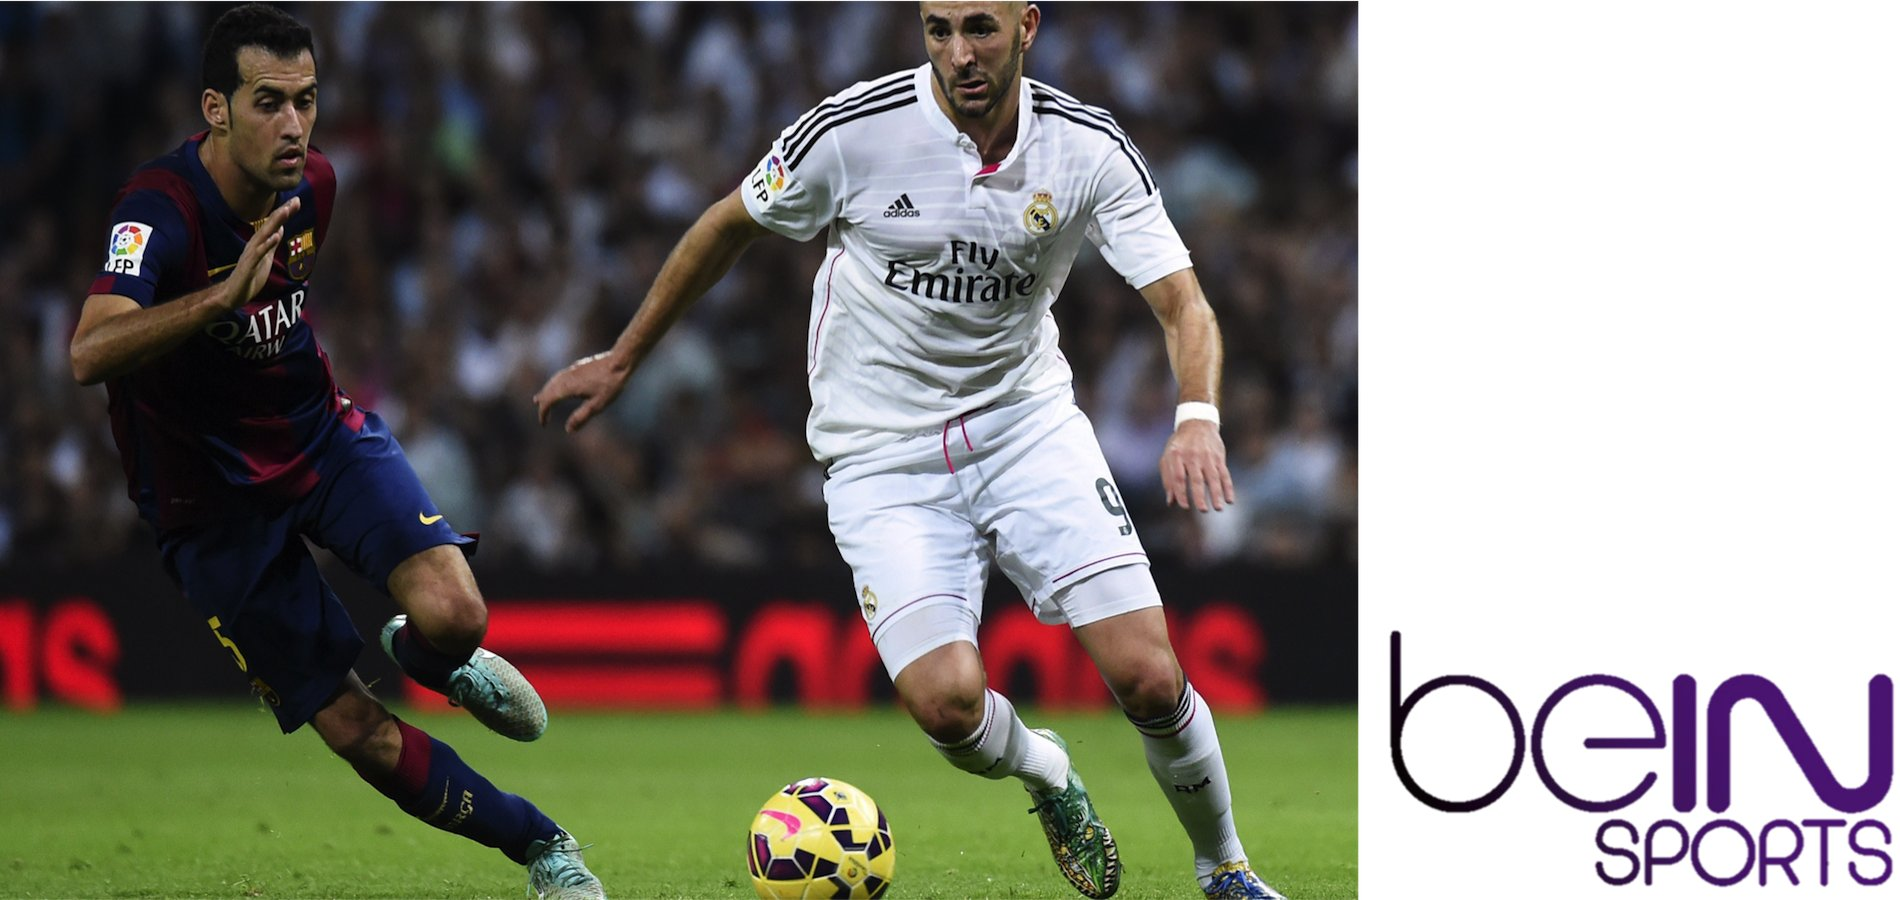
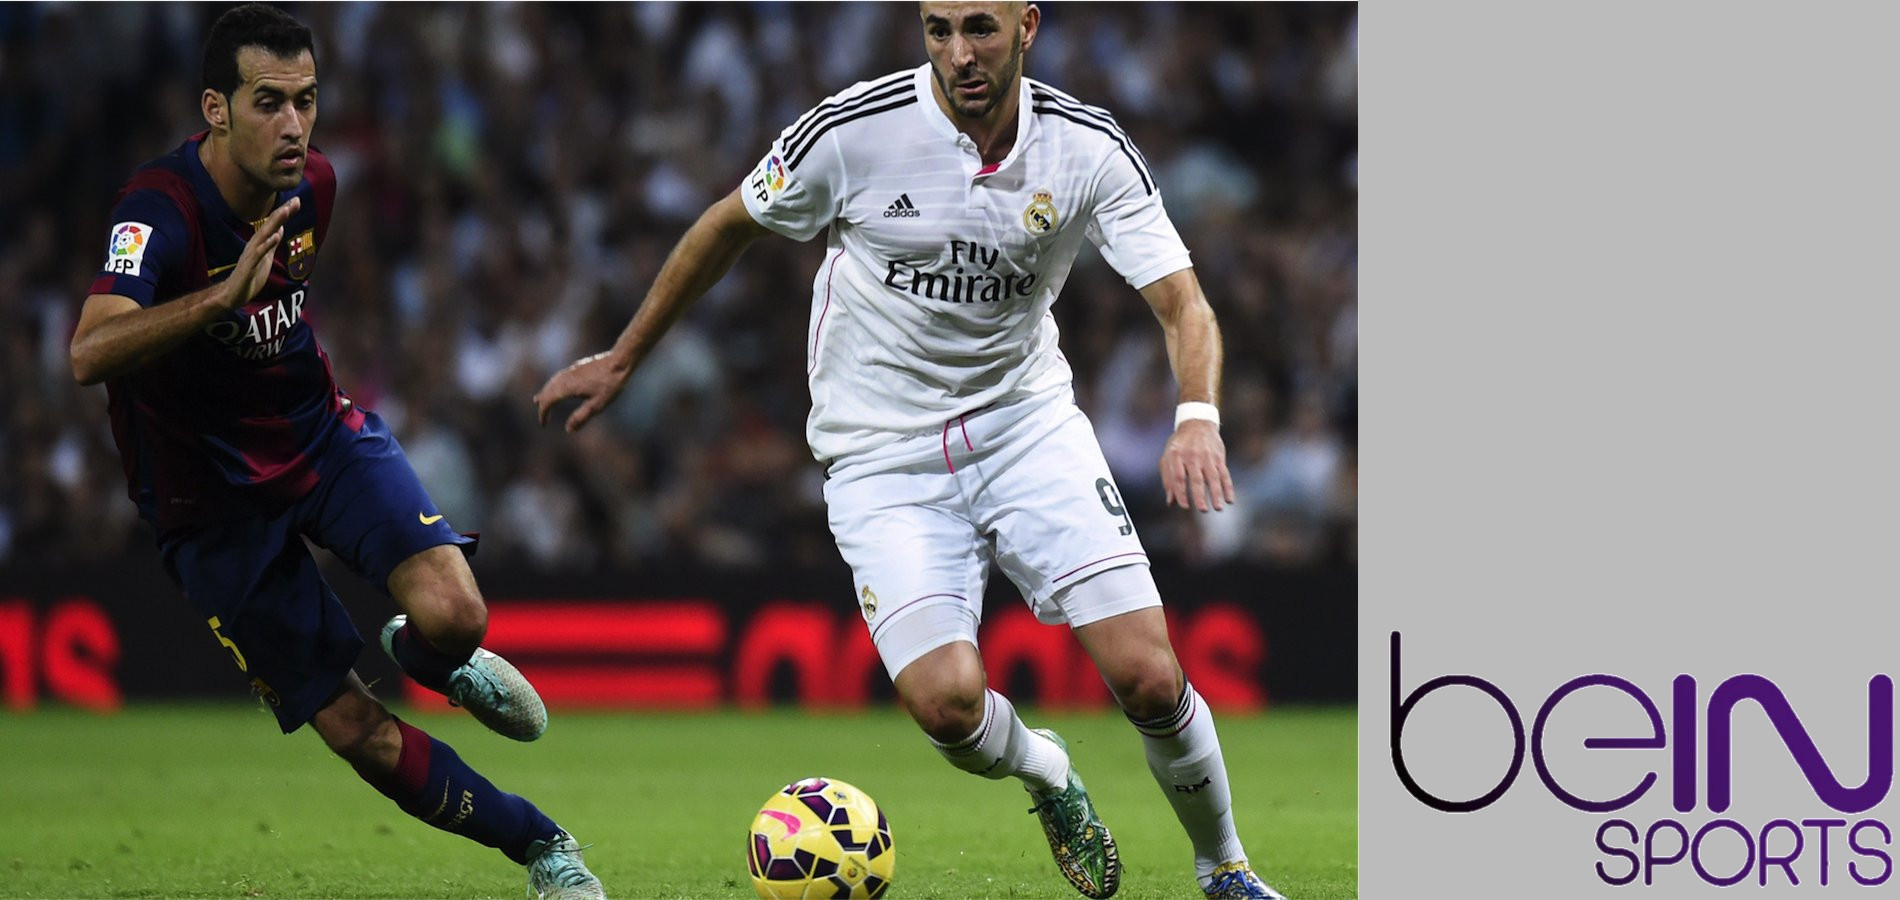
one more beIN slide

Changed region(s): [[0.7142, 0.0, 1.0, 1.0]]

diff --git a/client/styles/app.css b/client/styles/app.css
@@ -594,6 +594,72 @@ a.btn-sign:hover {
     margin: 0px;
 }
 
+#carousel-banner .carousel-caption5a {
+    position: absolute;
+    height: 100px;
+    background-color: rgba(255, 255, 255, 0.5);
+    font-family: 'radikalthin';
+    text-align: left;
+    z-index: 99;
+    left: 50px;
+    top: 360px;
+}
+
+#carousel-banner .caption-txt5a {
+    padding: 10px;
+}
+
+#carousel-banner .carousel-caption5a h2 {
+    font-size: 30px;
+    line-height: 35px;
+    color: #613e73;
+    padding: 5px 0;
+    margin: 0px;
+}
+
+
+#carousel-banner .carousel-caption5b {
+    position: absolute;
+    height: 1000px;
+    font-family: 'radikalthin';
+    text-align: left;
+    z-index: 99;
+    left: 72%;
+    top: 220px;
+}
+
+#carousel-banner .caption-txt5b {
+    padding: 10px;
+}
+
+#carousel-banner .carousel-caption5b h2 {
+    font-size: 20px;
+    line-height: 23px;
+    color: #613e73;
+    padding: 5px 0;
+    margin: 0px;
+}
+
+#carousel-banner .carousel-caption5b button {
+    font-size: 22px;
+    background-color: #A03269;
+    color: #fff;
+    border: 0px;
+    border-radius: 5px;
+    padding: 10px 25px;
+    margin: 10px 0;
+    font-family: 'radikalregular';
+}
+
+#carousel-banner .carousel-caption5b p {
+    font-size: 14px;
+    line-height: 14px;
+    color: #000;
+    padding: 5px 0;
+    margin: 0px;
+}
+
+
 .about-text {
     font-weight: bolder;
     font-family: 'gotham-bookgotham-book';
@@ -1271,6 +1337,10 @@ a.btn-import:hover {
         font-size: 16px;
         line-height: 19px;
     }
+
+    #carousel-banner .carousel-caption5a {
+        top: 300px;
+    }
 }
 
 @media screen and (max-width: 999px) {
@@ -1403,6 +1473,23 @@ a.btn-import:hover {
         font-size: 20px;
         line-height: 20px;
     }
+
+    #carousel-banner .carousel-caption5b {
+        top: 140px;
+    }
+
+    #carousel-banner .carousel-caption5b h2 {
+        font-size: 15px;
+    }
+
+    #carousel-banner .carousel-caption5a {
+        top: 225px;
+    }
+
+    #carousel-banner .carousel-caption5a h2 {
+        font-size: 25px;
+        line-height: 25px;
+    }
 }
 
 @media screen and (max-width: 799px) {
@@ -1414,6 +1501,10 @@ a.btn-import:hover {
     #carousel-banner .carousel-caption2 p {
         font-size: 12px;
         line-height: 15px;
+    }
+
+    #carousel-banner .carousel-caption5b button {
+        font-size: 15px;
     }
 }
 
@@ -1569,6 +1660,16 @@ a.btn-import:hover {
     #carousel-banner .carousel-caption4 button {
         margin: 0;
     }
+
+    #carousel-banner .carousel-caption5a {
+        top: 175px;
+        height: 70px;
+    }
+
+    #carousel-banner .carousel-caption5a h2 {
+        font-size: 20px;
+        line-height: 20px;
+    }
 }
 
 @media screen and (max-width: 707px) {
@@ -1620,6 +1721,18 @@ a.btn-import:hover {
         font-size: 14px;
         padding: 10px 20px;
         margin: 0;
+    }
+
+    #carousel-banner .carousel-caption5b {
+        top: 90px;
+    }
+
+    #carousel-banner .carousel-caption5b h2 {
+        font-size: 12px;
+    }
+
+    #carousel-banner .carousel-caption5b p {
+        font-size: 12px;
     }
 }
 
@@ -1794,6 +1907,34 @@ a.btn-import:hover {
         font-size: 12px;
         line-height: 12px;
     }
+
+    #carousel-banner .carousel-caption5b {
+        top: 70px;
+    }
+
+    #carousel-banner .carousel-caption5b h2 {
+        font-size: 10px;
+    }
+
+    #carousel-banner .carousel-caption5b button {
+        font-size: 12px;
+        padding: 10px;
+        margin: 0;
+    }
+
+    #carousel-banner .carousel-caption5b p {
+        font-size: 10px;
+    }
+
+    #carousel-banner .carousel-caption5a {
+        top: 120px;
+        height: 60px;
+    }
+
+    #carousel-banner .carousel-caption5a h2 {
+        font-size: 15px;
+        line-height: 15px;
+    }
 }
 
 @media screen and (max-width: 479px) {
@@ -1939,6 +2080,36 @@ a.btn-import:hover {
         font-size: 10px;
         line-height: 10px;
     }
+
+    #carousel-banner .carousel-caption5b {
+        top: 60px;
+    }
+
+    #carousel-banner .carousel-caption5b h2 {
+        font-size: 8px;
+        line-height: 8px;
+    }
+
+    #carousel-banner .carousel-caption5b button {
+        font-size: 8px;
+        padding: 10px;
+        margin: 0;
+    }
+
+    #carousel-banner .carousel-caption5b p {
+        font-size: 8px;
+        line-height: 8px;
+    }
+
+    #carousel-banner .carousel-caption5a {
+        top: 100px;
+        height: 50px;
+    }
+
+    #carousel-banner .carousel-caption5a h2 {
+        font-size: 10px;
+        line-height: 10px;
+    }
 }
 
 @media screen and (max-width: 399px) {
@@ -2047,6 +2218,36 @@ a.btn-import:hover {
     }
 
     #carousel-banner .carousel-caption4 p {
+        font-size: 8px;
+        line-height: 8px;
+    }
+
+    #carousel-banner .carousel-caption5b {
+        top: 50px;
+    }
+
+    #carousel-banner .carousel-caption5b h2 {
+        font-size: 8px;
+        line-height: 8px;
+    }
+
+    #carousel-banner .carousel-caption5b button {
+        font-size: 8px;
+        padding: 8px;
+        margin: 0;
+    }
+
+    #carousel-banner .carousel-caption5b p {
+        font-size: 8px;
+        line-height: 8px;
+    }
+
+    #carousel-banner .carousel-caption5a {
+        top: 70px;
+        height: 50px;
+    }
+
+    #carousel-banner .carousel-caption5a h2 {
         font-size: 8px;
         line-height: 8px;
     }

diff --git a/client/views/home.html b/client/views/home.html
@@ -3,6 +3,23 @@
         <div id="carousel-banner" class="carousel slide" bootstrap-carousel interval="5000">
             <ul class="carousel-inner">
                 <li class="item active">
+                    <img src="img/banner5.jpg" alt="...">
+                    <div class="carousel-caption5a">
+                        <div class="caption-txt5a">
+                            <h2 translate="HOME_GET_EXCLUSIVE">Get exclusive soccer matches</h2>
+                            <h2 translate="HOME_FROM_THE_TOP">From the top clubs.</h2>
+                        </div>
+                    </div>
+
+                    <div class="carousel-caption5b">
+                        <div class="caption-txt5b">
+                            <h2 translate="HOME_YIPTV_HAS_BEIN">YipTV has beIN Sports</h2>
+                            <button goto="/sign-up/paid" translate="HOME_JOIN_NOW">Join Now!</button>
+                            <p translate="HOME_NO_CONTRACTS_CANCEL_ANYTIME">No contracts - cancel anytime!</p>
+                        </div>
+                    </div>
+                </li>
+                <li class="item">
                     <img src="img/banner2.jpg" alt="...">
 
                     <div class="carousel-caption2">
@@ -70,6 +87,7 @@
                 <li data-target="#carousel-banner" data-slide-to="1"></li>
                 <li data-target="#carousel-banner" data-slide-to="2"></li>
                 <li data-target="#carousel-banner" data-slide-to="3"></li>
+                <li data-target="#carousel-banner" data-slide-to="4"></li>
             </ol>
         </div>
     </div>
